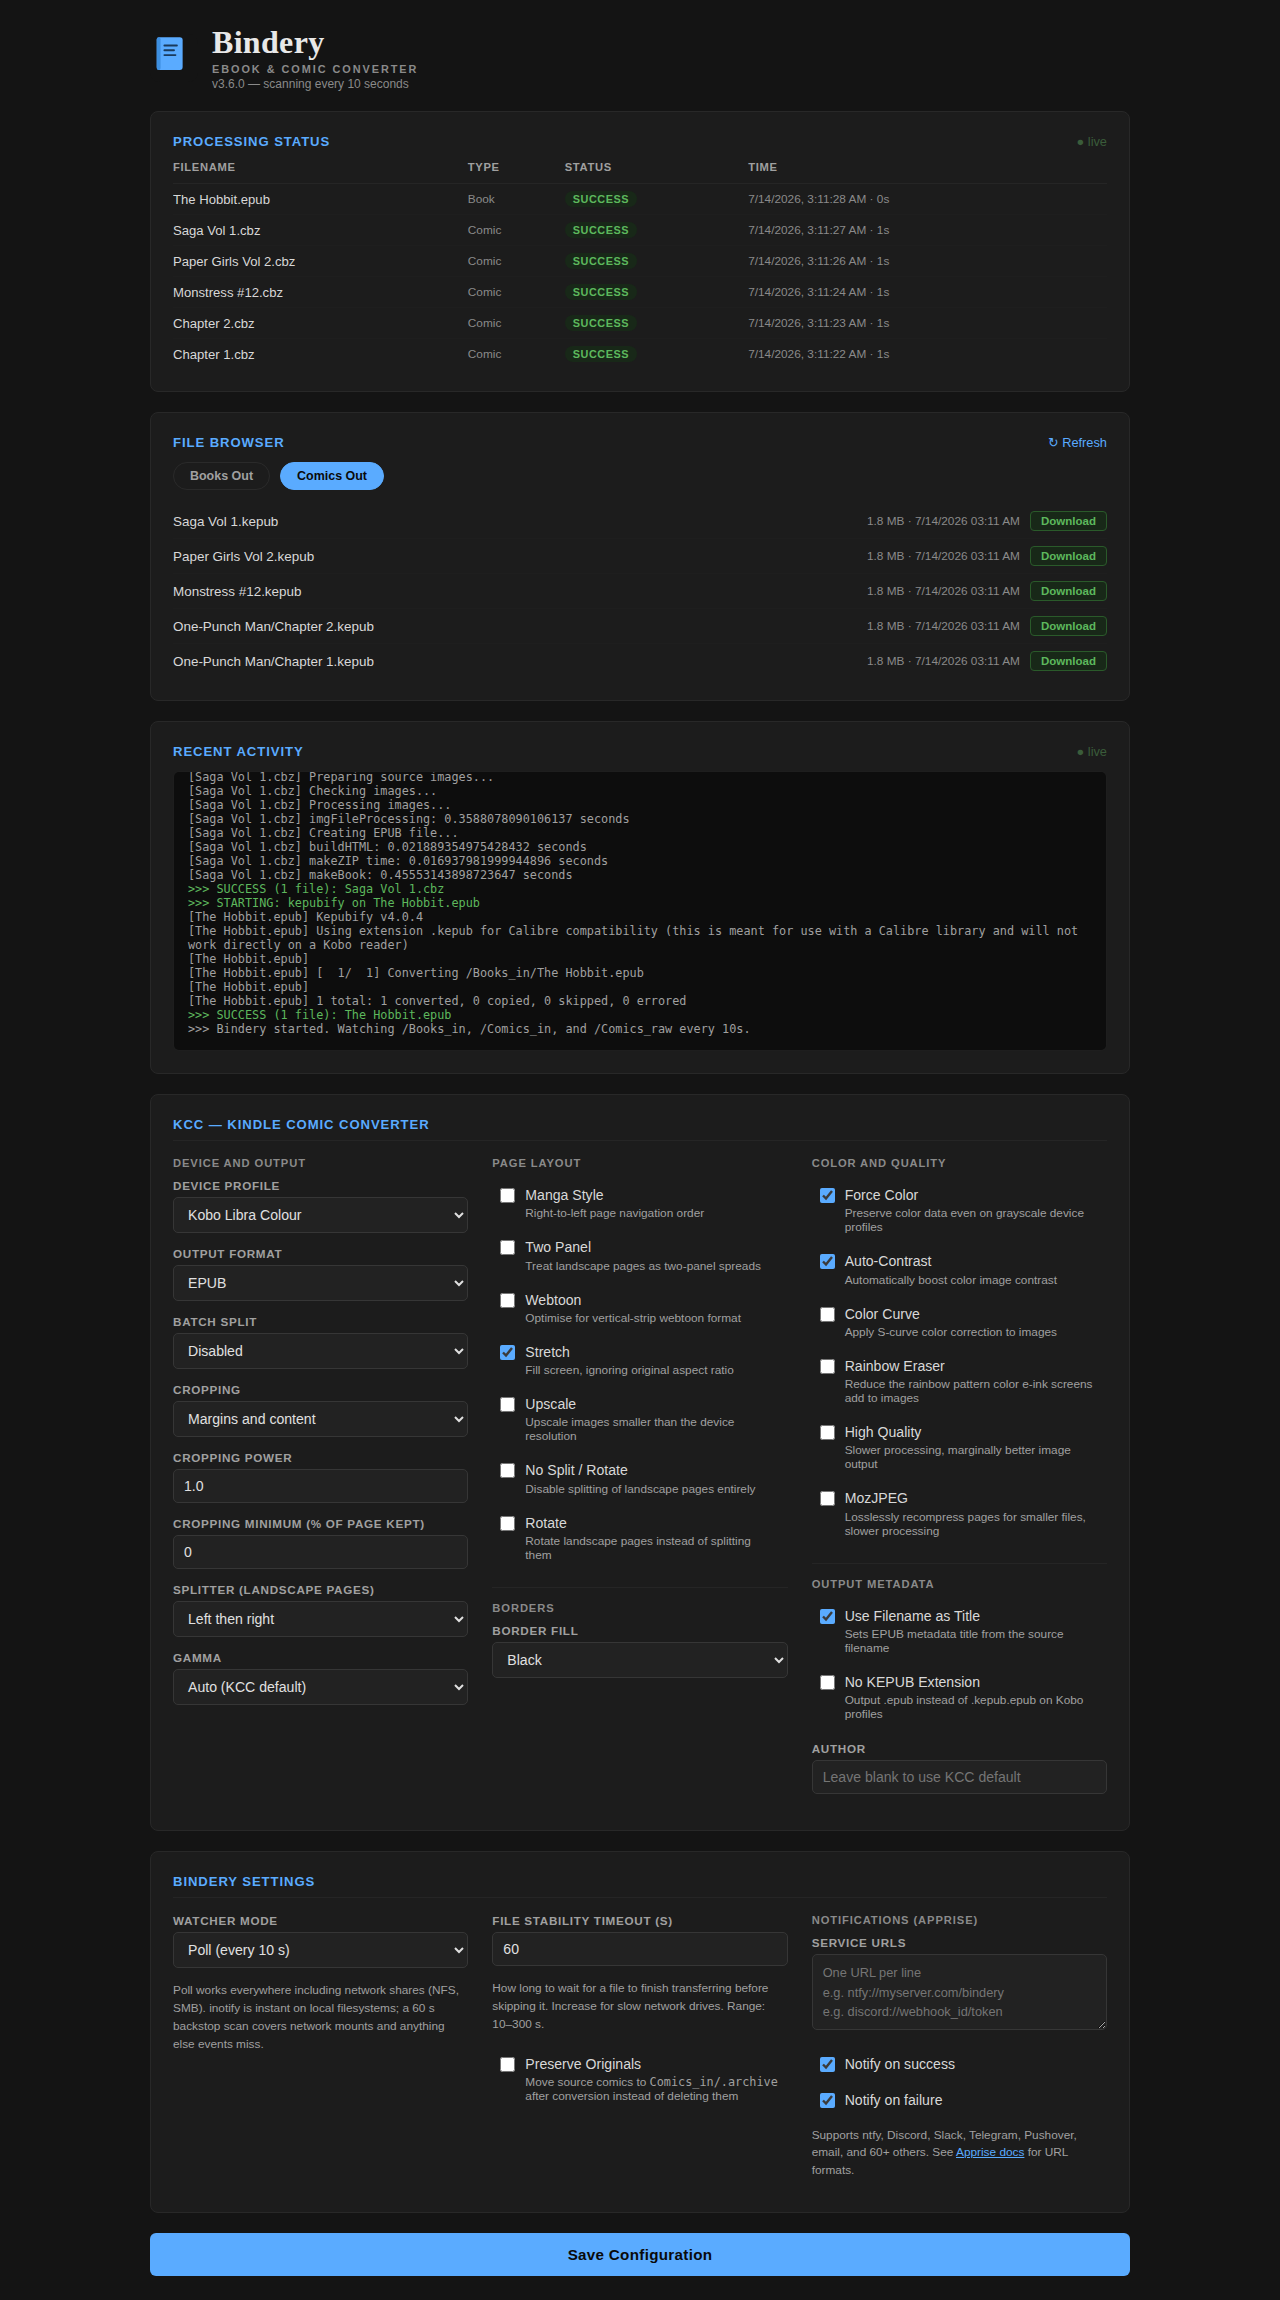
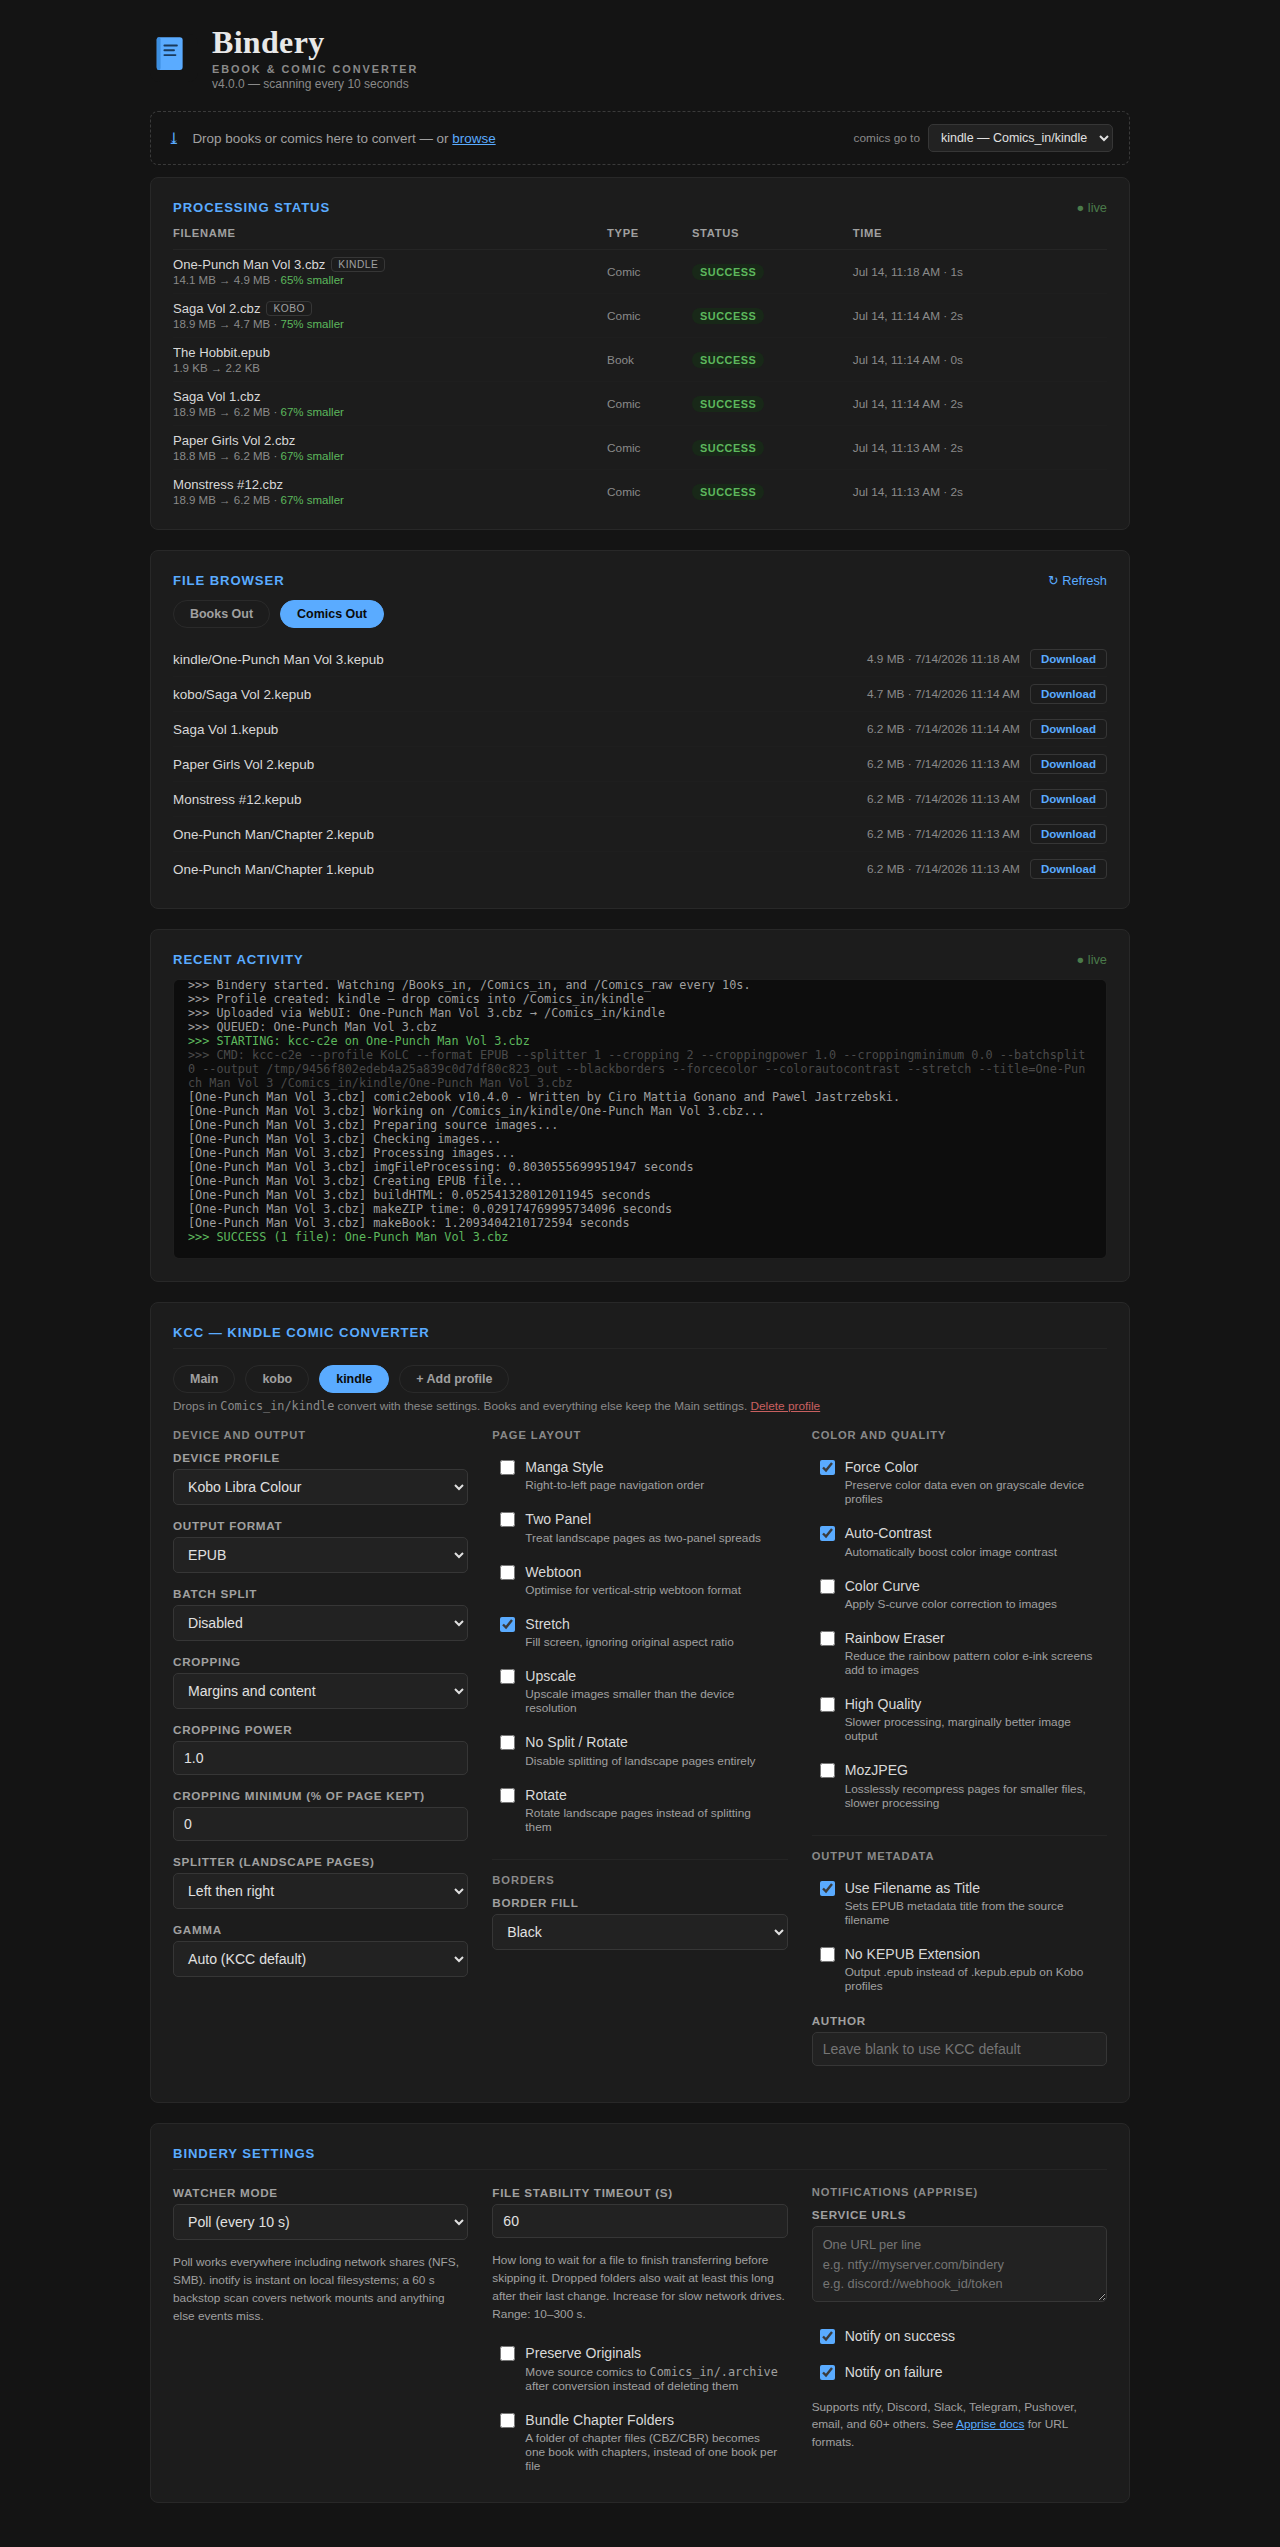
docs: v4.0.0 changelog, readme, webui screenshot

diff --git a/README.md b/README.md
@@ -87,9 +87,13 @@ services:
 
 The WebUI at port 5000 gives you full control over Bindery without touching config files or restarting the container.
 
+### Upload
+
+Drag files anywhere onto the page — or tap the strip under the header on a phone — and they land in the right watch folder automatically: `.epub` goes to `Books_in`, comics to `Comics_in` or a device profile folder of your choice. Conversion starts on the next scan, and the status table picks the job up like any other drop. No Samba, SFTP, or shell access needed.
+
 ### Processing Status
 
-A live table shows every conversion job — filename, type, status (`queued` / `processing` / `success` / `failed`), timestamp, and elapsed time. Failed jobs show a **Retry** button that re-queues the file immediately. Job history is persisted in `/app/config/jobs.json` and survives container restarts (capped at 500 entries; oldest completed jobs are pruned first).
+A live table shows every conversion job — filename, type, status (`queued` / `processing` / `success` / `failed`), timestamp, and elapsed time. Successful conversions also show the before → after size and percentage saved, and jobs from a device profile folder carry the profile's tag. Failed jobs show a **Retry** button that re-queues the file immediately. Job history is persisted in `/app/config/jobs.json` and survives container restarts (capped at 500 entries; oldest completed jobs are pruned first).
 
 ### File Browser
 
@@ -108,6 +112,20 @@ tgram://bot_token/chat_id
 ```
 
 Full URL formats for every supported service are in the [Apprise docs](https://github.com/caronc/apprise/wiki).
+
+---
+
+## Device Profiles
+
+One Bindery can serve every reader in the house. Create a profile in the WebUI — the pills at the top of the KCC settings card — name it after the device (`kobo`, `kindle`, whatever you like), and Bindery creates `Comics_in/<name>` and `Comics_out/<name>` for it. Anything dropped into a profile's folder converts with that profile's KCC settings and comes out in its own output folder, so nothing gets mixed together.
+
+A few rules that keep it predictable:
+
+- Drops in the root of `Comics_in` always use the main settings — creating profiles changes nothing for anyone who ignores them.
+- A profile starts as a copy of the main settings; switch to its pill, adjust, and save. Settings a profile has never saved follow the main settings automatically.
+- Watcher mode, notifications, Preserve Originals, and the other Bindery settings are shared — profiles override KCC conversion settings only. Books have no KCC settings, so `Books_in` is unaffected.
+- Deleting a profile never touches its folders or files; future drops there simply convert with the main settings.
+- Folder jobs and Bundle Chapter Folders work inside profile folders exactly as they do in the root.
 
 ---
 
@@ -141,7 +159,7 @@ When **Device Profile** is set to **Generic / Custom**, width and height fields 
 
 - Bindery watches `/Books_in`, `/Comics_in` and `/Comics_raw` using either **poll** mode (every 10 s, NAS/SMB/NFS compatible) or **inotify** mode (instant on local filesystems, with a 60 s backstop scan for anything events miss).
 - Each file gets a per-file lock so the same file is never processed twice concurrently.
-- Subfolder structure is preserved for individually converted files — `Comics_in/Marvel/issue01.cbz` converts to `Comics_out/Marvel/issue01.kepub`, and books work the same way.
+- Subfolder structure is preserved for individually converted files — `Comics_in/Marvel/issue01.cbz` converts to `Comics_out/Marvel/issue01.kepub`, and books work the same way. Device profile folders mirror too: `Comics_in/kobo/x.cbz` comes out in `Comics_out/kobo/`.
 - A folder of images dropped into `Comics_in` is one bundled job: a single volume named after the folder, with subfolders as chapters. With **Bundle Chapter Folders** enabled, a folder of chapter archives works the same way — one volume, a chapter per archive. Processing starts once nothing inside has changed for the File Stability Timeout (minimum 30 s).
 - On success: converted file is moved to the output folder. The source is deleted, or moved to `Comics_in/.archive` if **Preserve Originals** is enabled.
 - On failure: the source is renamed to `<filename>.failed` and will not be retried automatically. Use the Retry button in the WebUI to re-queue it.

diff --git a/CHANGELOG.md b/CHANGELOG.md
@@ -1,6 +1,10 @@
-## v4.0.0
+## v4.0.0 — Device Profiles, Browser Upload & Merged Volumes
 
+- Added: **Device Profiles** — create named profiles (say, `kobo` and `kindle`) in the WebUI, each with its own KCC settings. Every profile gets a drop folder (`Comics_in/kobo`) and a matching output folder (`Comics_out/kobo`), created for you. Drops in the root of `Comics_in` behave exactly as before, and nothing changes until you create your first profile. Deleting a profile keeps its folders and files; future drops there just use the main settings
+- Added: **upload from the WebUI** — drag files onto the page (or tap the strip on a phone) and they land in the right watch folder: books to `Books_in`, comics to `Comics_in` or a profile folder of your choice. No SMB, SFTP, or shell access needed
 - Added: **Bundle Chapter Folders** toggle in Bindery Settings — with it on, a folder of chapter archives (`.cbz`/`.cbr`/`.zip`/`.rar`) dropped into `Comics_in` converts as one volume with a chapter per file, ordered naturally (`ch2` before `ch10`), instead of one book per file. Off by default, so existing per-file setups are untouched; folders holding PDFs or loose images alongside archives keep the per-file path either way
+- Added: successful conversions show **before → after sizes** and the percentage saved, right in the status table
+- Improved: WebUI — the save button now lives in a bar that appears only when there are unsaved changes and names what it saves ("Save "kobo" Profile"); download buttons no longer borrow the success green; timestamps are shorter; conversions from a profile are tagged in the status table
 - Changed: the quiet window before a dropped folder converts now follows **File Stability Timeout** (with a 30 s floor) instead of a fixed 30 s, so slow downloaders that pause between chapters can extend it
 - Updated: KCC `v10.3.0` → `v10.4.0` — smart-cover-crop crash fix and higher JPEG quality on Scribe/Colorsoft profiles; every flag and device profile Bindery relies on verified unchanged between the tags
 